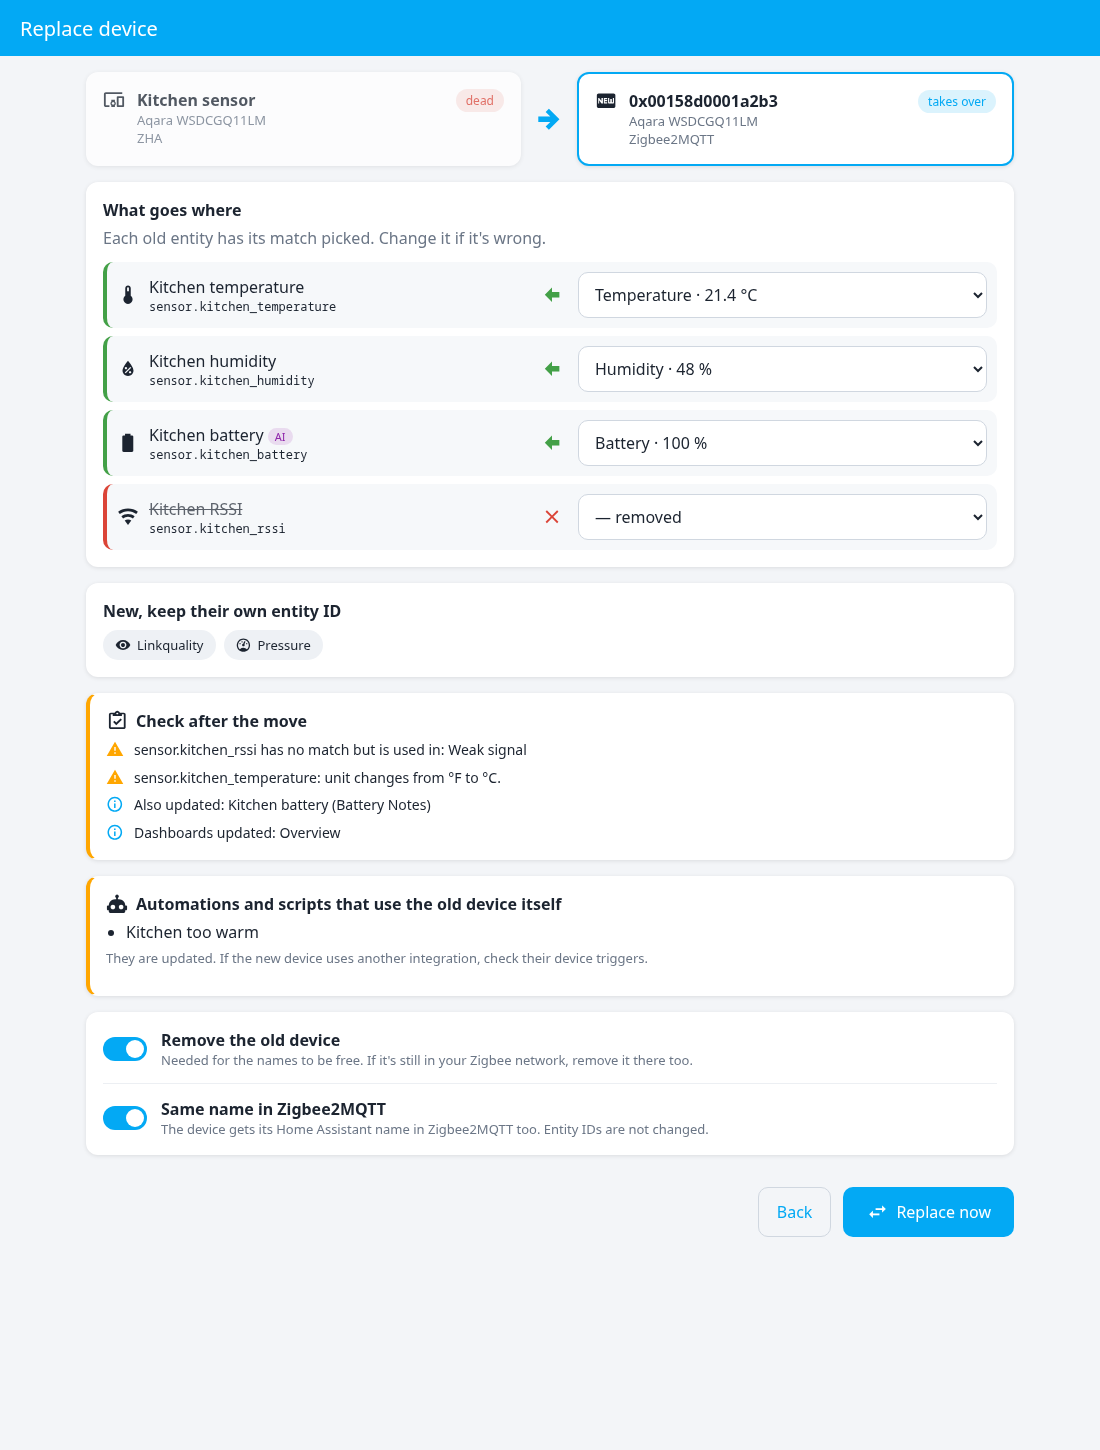
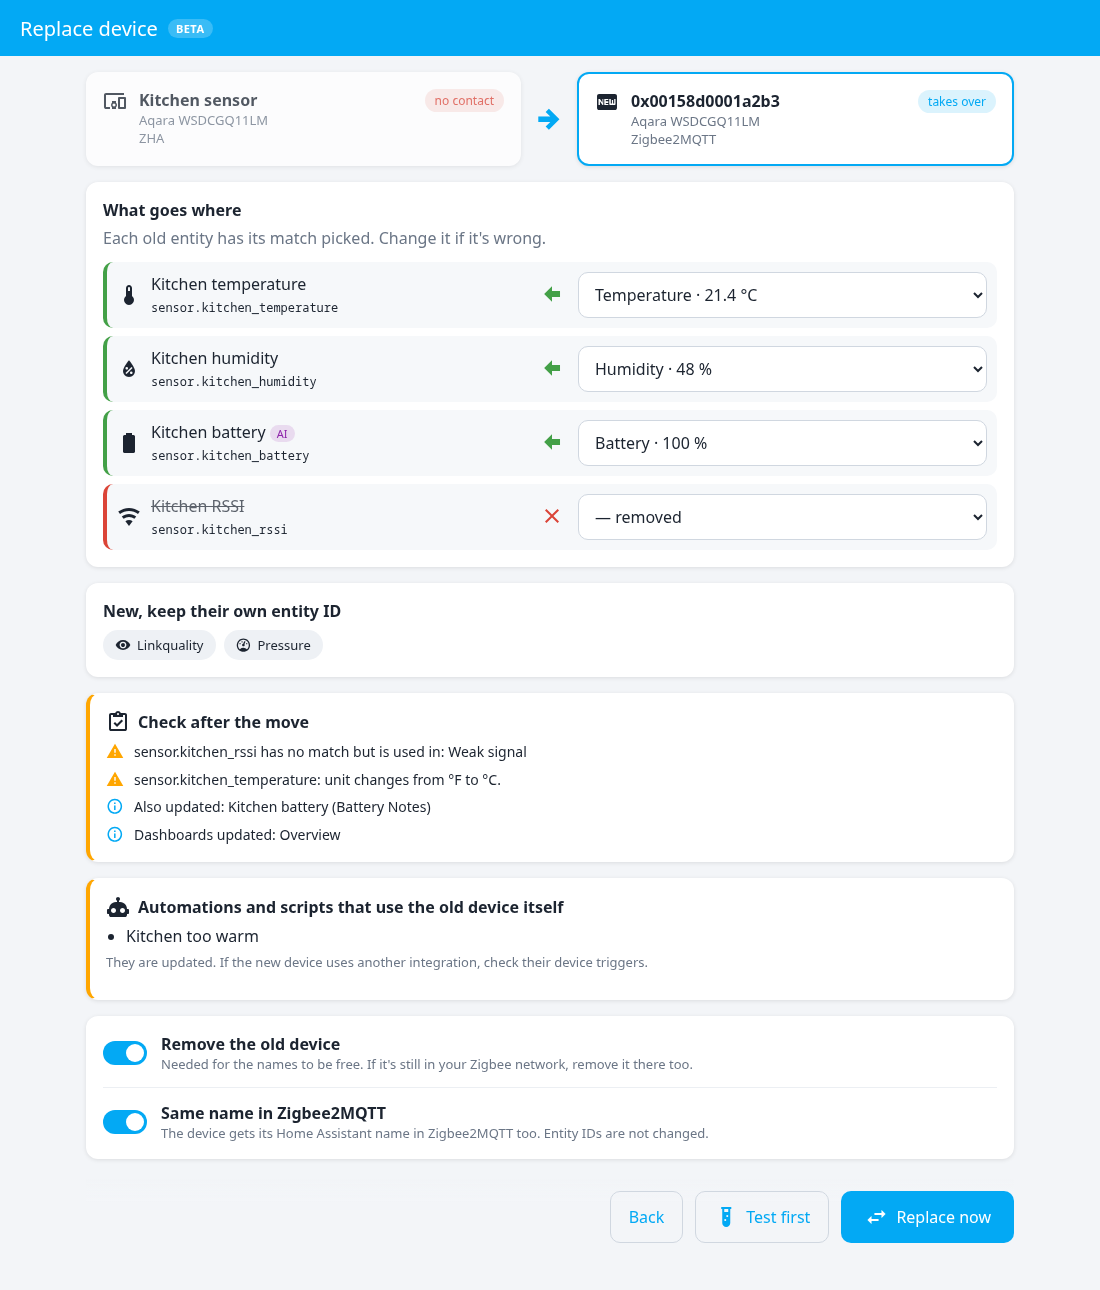
README: nyt billede af udskiftning med Test først og af testkørslen

diff --git a/README.md b/README.md
@@ -69,6 +69,8 @@ Can't find it in the HACS search? Add it as a custom repository first: **HACS** 
 2. Open **Replace device** in the sidebar. Devices without contact are listed with a hint – the last battery level ("change the battery first") or "switched off at the wall?" – and a likely replacement when one is found: tap **Replace with …**. A bulb that is only switched off can be hidden. Or tap **Replace a device**, search for the old one, then the new one. The same physical device or the same model is shown first.
 3. The old and the new device are shown side by side. Each old entity has its match picked (temperature to temperature, battery to battery) – also when the names are in different languages, by comparing the integration's own feature names. Several channels of the same kind (L1/L2, buttons 1–3) pair in order, even when the numbers differ between integrations. A close call is marked **check**. Change one if it's wrong, or pick "— removed".
 4. Read what to check. Not sure? Tap **Test first**: it shows exactly what would happen – which entity IDs change, which automations, scripts and dashboards are updated, and how each button trigger is translated – without changing anything. It works for **Move many devices** too.
+
+<p><img src="docs/panel-dry.png" alt="Test first: what would happen, without changing anything" width="300"></p>
 5. Tap **Replace now**.
 
 Got two names mixed up (temperature and humidity, say)? Tap **Change** next to the replacement under *Replaced* and move the names to the right entities. Only names change – the device stays where it is.
@@ -143,6 +145,8 @@ Kan du ikke finde den i HACS-søgningen? Tilføj den først som brugerdefineret 
 2. Åbn **Udskift enhed** i sidemenuen. Her ser du enheder uden kontakt med et hint, fx det sidste batteriniveau ("skift batteriet først") eller "slukket på kontakten?". Har den fundet en sandsynlig afløser, står den der: Tryk **Udskift med …**. En pære, der bare er slukket, kan skjules. Du kan også trykke **Udskift en enhed**, søge den gamle frem og derefter den nye. Den samme fysiske enhed eller samme model står øverst.
 3. Den gamle og den nye enhed vises side om side. For hver gammel entitet er den matchende valgt, fx temperatur til temperatur og batteri til batteri. Det virker også, når navnene er på forskellige sprog, fordi integrationernes egne navne for funktionerne sammenlignes. Flere kanaler af samme slags (L1/L2, knap 1–3) parres i rækkefølge, også når numrene er forskellige i de to integrationer. Et usikkert valg er markeret med **tjek**. Ret den, hvis den er forkert, eller vælg "— fjernes".
 4. Læs, hvad du skal tjekke. I tvivl? Tryk **Test først**. Den viser præcis, hvad der ville ske: hvilke entity-id'er der skifter, hvilke automatiseringer, scripts og dashboards der opdateres, og hvordan hver knaptrigger oversættes. Intet bliver ændret. Det virker også ved **Flyt mange enheder**.
+
+<p><img src="docs/panel-dry.png" alt="Test først: hvad der ville ske, uden at noget ændres" width="300"></p>
 5. Tryk **Udskift nu**.
 
 Har to navne byttet plads, fx temperatur og fugt? Tryk **Ret** ved udskiftningen under *Udskiftet*, og flyt navnene til de rigtige entiteter. Kun navnene ændres. Enheden bliver, hvor den er.
